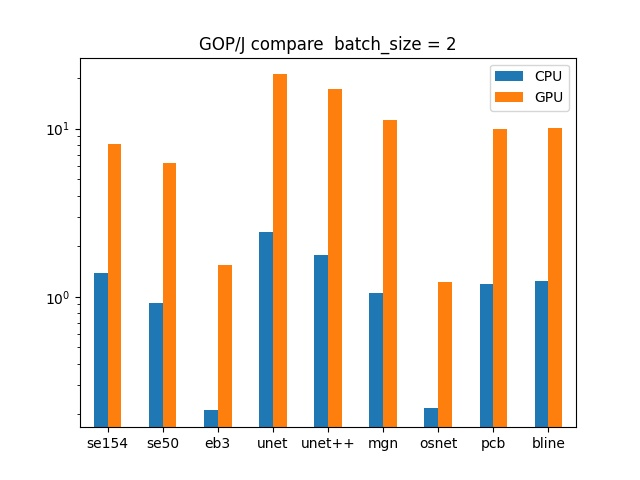
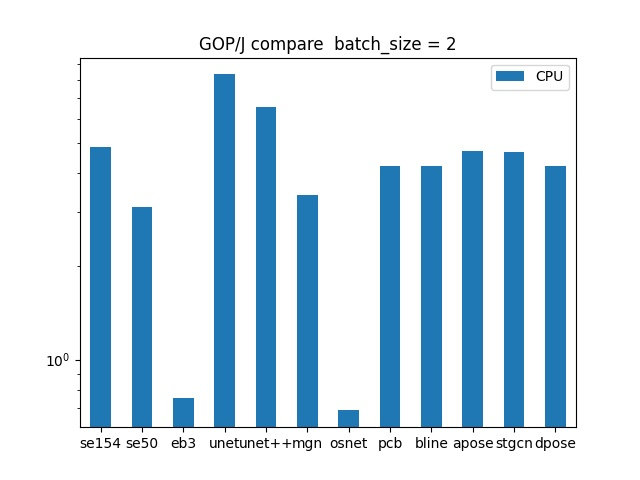
do all model cpu test

diff --git a/benchmark_op.py b/benchmark_op.py
@@ -234,12 +234,12 @@ class DLHBenchmark():
                 benchmark_opj_new.to_csv(file_name, index = True)
 
 if __name__ == "__main__":
-    # warm_up = 5
-    # infer_epoch = 5
-    # batch_size_list = [1, 2, 4]
-    warm_up = 2
-    infer_epoch = 2
-    batch_size_list = [1]
+    warm_up = 5
+    infer_epoch = 5
+    batch_size_list = [1, 2, 4]
+    # warm_up = 2
+    # infer_epoch = 2
+    # batch_size_list = [1]
     model_list = ["senet154", "se_resnext50_32x4d", "efficientnet_b3", "unet", "unetpp",
             "mgn", "osnet", "pcb", "baseline", "alphapose", "st_gcn_net", "deeppose"]
     model_simple = ["se154", "se50", "eb3", "unet", "unet++", "mgn", "osnet", "pcb", "bline", "apose", "stgcn", "dpose"]
